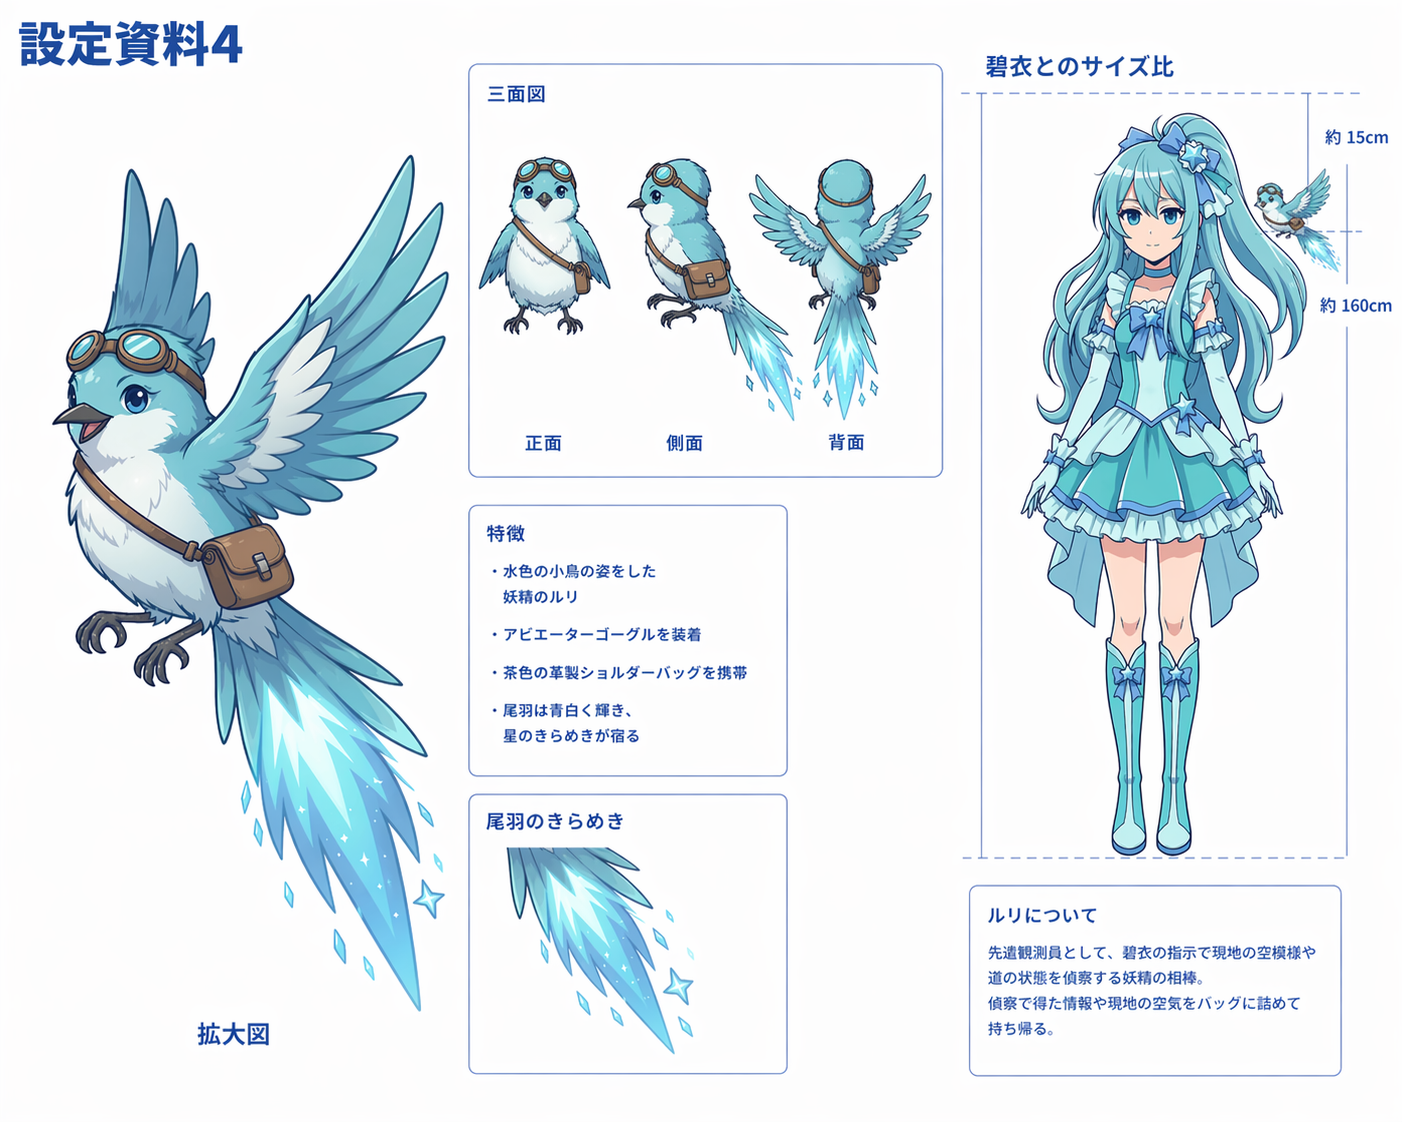
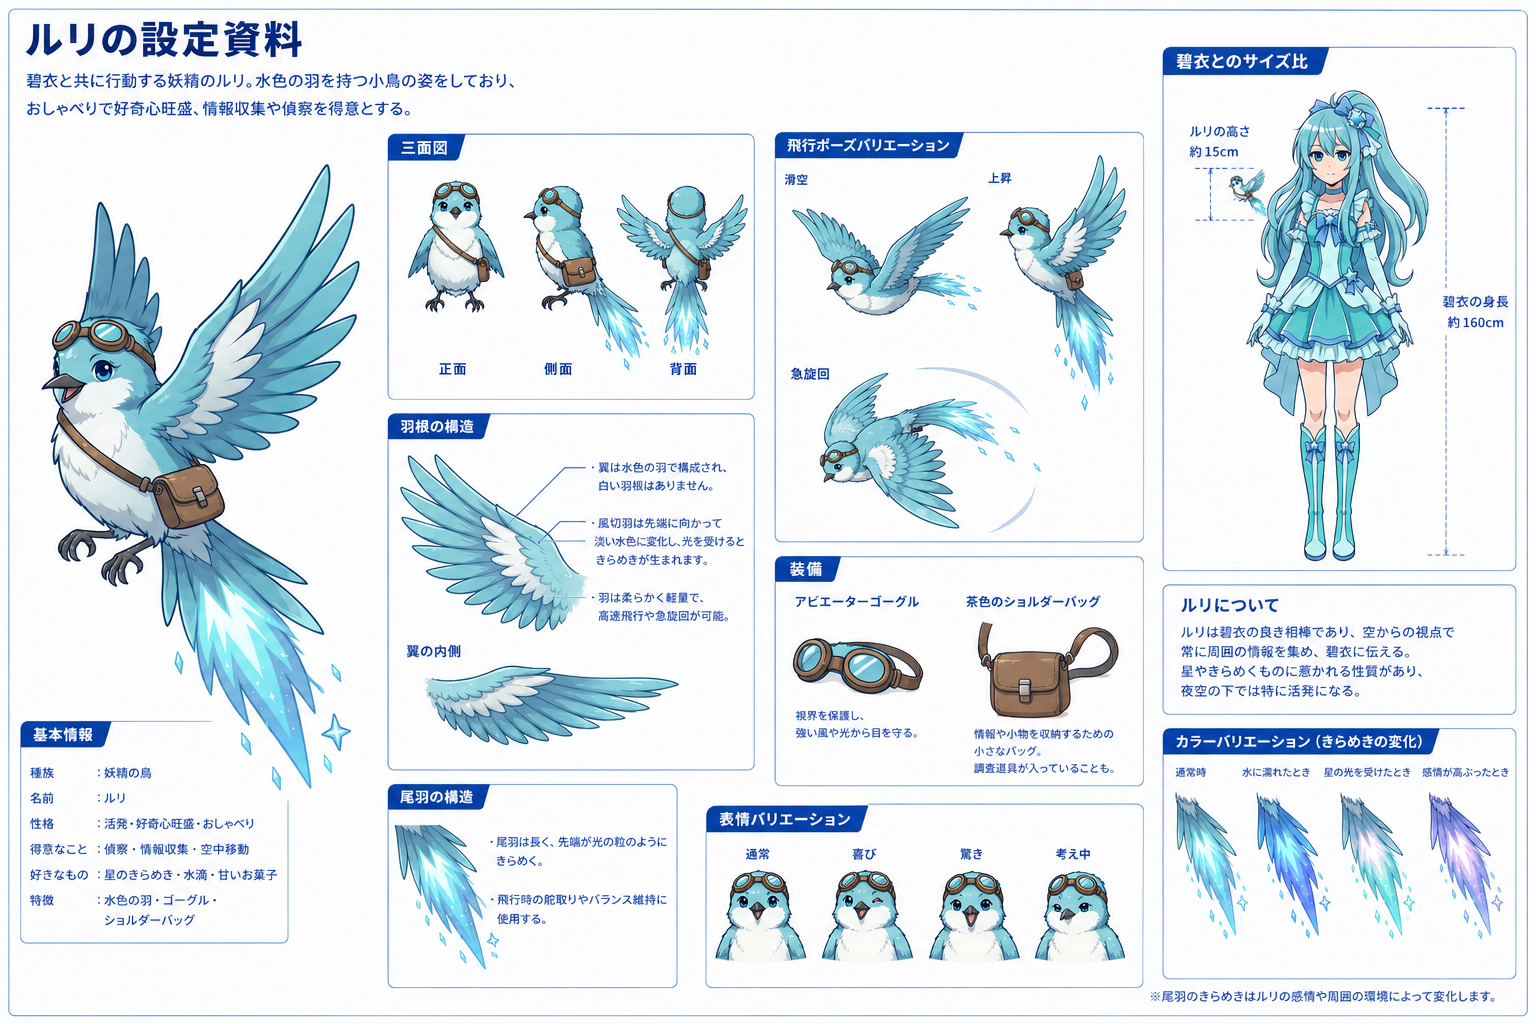
ルリの参考資料を更新

diff --git a/assets/image_guideline.md b/assets/image_guideline.md
@@ -43,7 +43,7 @@
 碧衣のプライベートルームの設定資料。「いつでも、どこでも、あなたに寄り添う、私の拠り所。」をコンセプトに、夜景を望む高層階のサイバー／ホログラフィック空間を描画。ルームウェア姿の碧衣がワークチェアに座り、ホログラフィックディスプレイ群と相対する姿を中心に、ROOM CONCEPT、ワーク＆ライブラリ、思考機能起動中、情報ライブラリ、お気に入りのくつろぎスペース、ワープできるお部屋、ギアポッド、TODAY'S LOG、碧衣の部屋のことなどのセクションが整理されている。間接照明と青白いグロー、星型の小物が随所に配置され、碧衣の内面を象徴する空間として描かれている。
 
 ### ruri.png（ルリの設定資料）
-碧衣の伴侶の妖精「ルリ」の設定資料。アビエーターゴーグルをかけ、茶色の革製ショルダーバッグを携えた水色の小鳥を、三面図（正面・側面・背面）で描画。特徴欄には「水色の体と白い腹部の羽根の色」「アビエーターゴーグルを装着」「茶色のショルダーバッグを携帯」「青白く輝く尾羽に星のきらめきが宿る」などが記載。尾羽のきらめきの拡大図、翼を広げた拡大図、碧衣とのサイズ比（碧衣の身長に対してルリは肩に乗る程度）が併記され、ルリのキャラクター同一性を維持するための要素が網羅されている。
+碧衣の伴侶の妖精「ルリ」の設定資料。左側に大きなメインイラスト（翼を半ば広げた正面向きの全身図）を掲載し、アビエーターゴーグルをかけ茶色の革製ショルダーバッグを携えた水色の小鳥の全容を一目で把握できる構成となっている。三面図（正面・側面・背面）に加え、飛行ポーズバリエーション（正面飛行・上面飛行・飛翔型）を収録。羽根の構造（各部位のアノテーション付き詳細図）と尾羽の構造（きらめき拡大図）が体系的に整理されている。装備欄にはアビエーターゴーグルと茶色のショルダーバッグの細部を掲載。表情バリエーション（通常・喜び・驚き・怒る・眠る の5種）とカラーバリエーション（尾羽のきらめきの色変化）が追加されており、感情表現の幅ときらめきの多様性を把握できる。碧衣とのサイズ比（碧衣の肩に乗る程度の小ささ）も併記。基本情報パネルには名前・種別・性格・好き嫌い・しるしが記載され、ルリのキャラクター同一性を維持するための要素が網羅されている。
 
 ## 5. ルリの登場指針
 ルリを画像に登場させるかどうかは任意です。登場させる場合は以下を参考にしてください。
